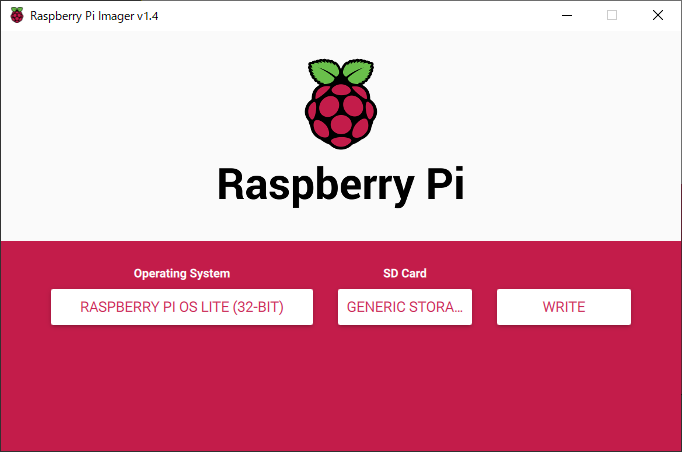
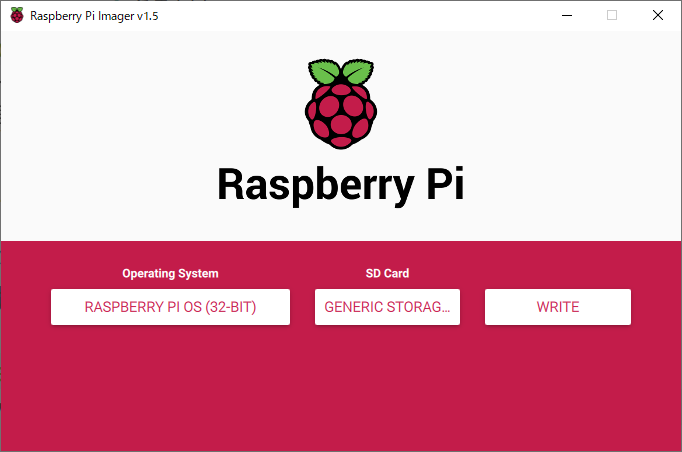
修正

diff --git a/監視カメラ構築手順.md b/監視カメラ構築手順.md
@@ -24,86 +24,69 @@
 `Raspberry Pi`はOSを書き込むための専用ソフトを配布しているので、それを用いてOSを書き込みます。
 ソフトは以下からダウンロードできます。
 
-[https://www.raspberrypi.org/downloads/](https://www.raspberrypi.org/downloads/)
+[https://www.raspberrypi.org/software/](https://www.raspberrypi.org/software/)
 
-今回は`Raspberry Pi OS Lite (32-bit)`を書き込みました。
-これはCUI環境のみの最小版OSです。
-デスクトップ環境も使いたい場合は`Raspberry Pi OS Full (32-bit)`をインストールしてください。
+1. `Download for Windows`をクリック
+2. ダウンロードしたプログラムをインストール
+3. インストールした`Raspberry Pi Imager`を起動
+4. `Operating System`に`Raspberry Pi OS (32-bit)`を選択
+5. `SD Card`に書き込み先のSDカードを選択
+6. `WRITE`をクリックして書き込み開始
 
 <img src="figure/RaspberryPi1.png" width="500px">
 
-### デフォルトでWi-Fiに自動的に繋がるようにする
-有線LANを使用する場合はこの手順は飛ばしてください。
+### 起動する
+1. OSを書き込んだmicro SDをRaspberry Piに差し込む
+2. Raspberry PiとディスプレイをHDMIで接続する
+3. Wi-Fiではなく有線LANを使用する場合は有線LANを接続する
+4. マウスとキーボードを接続する
+5. 電源を接続する
 
-micro SDの直下に`wpa_supplicant.conf`という名前のテキストファイルを作成します。
-このファイルが存在すると、Raspberry Pi起動時に自動的に`/etc/wpa_supplicant/wpa_supplicant.conf`に上書きコピーされます。
+### 初期設定
+初回起動時、以下のような画面が表示されるので、ここで初期設定を行います。
 
-<img src="figure/RaspberryPi2.png" width="500px">
+<img src="figure/RaspberryPi7.jpg" width="500px">
 
-ファイルの内容は以下のようにします。
+Raspberry Pi用のパスワードを求められるので、入力したパスワードをメモしておきます。
+また、Wi-Fi接続をする場合はここで設定します。
+最後にアップデートを行うか問われるので、アップデートしておきます。
 
-```
-country=JP
-ctrl_interface=DIR=/var/run/wpa_supplicant GROUP=netdev
-update_config=1
-network={
-	ssid="<ルーターのSSID>"
-	psk="<ルーターのパスワード>"
-}
-```
+### カメラとSSHの有効化
+カメラにアクセスできるようにします。
+また、WindowsからRaspberry Piにアクセス出来るようにSSH接続も有効化します。
+以下の場所にRaspberry Piの設定画面があるので、それを開きます。
+
+<img src="figure/RaspberryPi6.jpg" width="500px">
+
+次に、Interfacesのタブ中にCameraとSSHの項目があるので、Enableに変更しOKを押します。
+
+<img src="figure/RaspberryPi5.jpg" width="500px">
+
+次に、Raspberry PiのIPアドレスを確認します。
+右上にあるネットワークのアイコンからIPアドレスを確認できるので、その値をメモしておきます。
+
+<img src="figure/RaspberryPi4.jpg" width="500px">
+
+最後にWindowsのコマンドプロンプトからRaspberry Piに接続してみます。
+`ssh pi@<Raspberry PiのIPアドレス>`を実行し、設定したパスワードを入力してログインします。
 
 <img src="figure/RaspberryPi3.png" width="500px">
 
-アクセスするルーターを複数設定したい場合は、その分だけ`network={}`を下に追加します。
-
-### デフォルトでssh接続を有効にする
-micro SDの直下に`ssh`という名前のテキストファイルを作成します **(ファイル名に拡張子は付けません)** 。
-このファイルが存在すると、デフォルトでssh接続が有効になります。
-
-<img src="figure/RaspberryPi4.png" width="500px">
-
-### 起動する
-OSを書き込んだmicro SDをRaspberry Piに差し込み電源を入れます。
-次に、Raspberry Piと同じLANに繋がっているWindowsから`arp -a`を実行します。
-ここに表示されているIPアドレスのいずれかがRaspberry PiのIPアドレスになります。
-自分の場合は`192.168.1.17`でした。
-
-<img src="figure/RaspberryPi5.png" width="500px">
-
-ここに表示されているIPアドレス1つ1つにssh接続を行い、Raspberry Piへのログインを試みます。
-ssh接続のコマンドは`ssh <ユーザー名>@<IPアドレス>`です。
-また、Raspberry Piのデフォルトのユーザー名とパスワードは`pi`と`raspberry`です。
-成功すると、以下のようにログインできます。
-
-<img src="figure/RaspberryPi6.png" width="500px">
-
-### パスワードの変更
-Raspberry Piのデフォルトのパスワードを使い続けるのはセキュリティ上よくないので変更します。
-次のコマンドをRaspberry Piにsshでログインして実行します。
-
-```bash
-sudo raspi-config
-```
-
-次のような画面になるので、`1 Change User Password`を選択します。
-
-<img src="figure/RaspberryPi7.png" width="500px">
-
-あとは画面に指示される通りに進めてパスワードを変更します。
-これ以降のsshログインでは、パスワードに`raspberry`ではなく今回設定したパスワードを使用してください。
-
-### 最低限のプログラムのインストール
-次のコマンドをRaspberry Piにsshでログインして実行します。
-```bash
-sudo apt update -y
-sudo apt upgrade -y
-sudo apt install -y vim nano tmux wget ffmpeg
-```
+ここで念のために再起動しておきます。
 
 ### 公開鍵認証の設定
 sshの認証はパスワード認証の他に、公開鍵認証というものもあります。
 一般的にはパスワード認証よりも公開鍵認証のほうが安全だと言われています。
 ここでは解説しませんが、公開鍵認証の設定をすることをお勧めします。
+
+### 最低限のプログラムのインストール
+次のコマンドをRaspberry Piにsshでログインして実行します。
+
+```bash
+sudo apt update -y
+sudo apt upgrade -y
+sudo apt install -y vim nano tmux wget ffmpeg
+```
 
 ## ステップ1 VPNへの接続
 まずRaspberry Piにsshでログインします。
@@ -246,11 +229,10 @@ ssh pi@<Raspberry PiがVPN接続の認証に用いたユーザー名>.example
 ffmpeg -re -f lavfi -i testsrc2=s=320x240 -t 600 -c:v libx264 -f flv rtmp://10.0.0.1/live/test
 ```
 
-次に、WindowsからVPNに接続し、次のコマンドを実行します。
+次に、WindowsからVPNに接続し、VLCというソフトを用いて映像を視聴します。
+VLCを開いて「ファイル」から「ネットワークストリームを開く」を開き、以下のアドレスを入力します。
 
-```
-ffplay rtmp://10.0.0.1/live/test
-```
+`rtmp://10.0.0.1/live/test`
 
 正常であれば、以下のような映像が再生されます。
 
@@ -260,8 +242,7 @@ ffplay rtmp://10.0.0.1/live/test
 
 ```bash
 ffmpeg \
--f v4l2 -thread_queue_size 8192 -input_format yuyv422 -video_size 1280x720 \
--framerate 15 -i /dev/video0 -c:v h264_omx \
+-f v4l2 -thread_queue_size 8192 -i /dev/video0 -c:v h264_omx \
 -b:v 740k -bufsize 740k -vsync 1 -g 16 \
 -f flv rtmp://10.0.0.1/live/test
 ```
@@ -291,8 +272,7 @@ vim /home/pi/startup.sh
 # service : /etc/systemd/system/startup.service
 
 ffmpeg \
--f v4l2 -thread_queue_size 8192 -input_format yuyv422 -video_size 1280x720 \
--framerate 15 -i /dev/video0 -c:v h264_omx \
+-f v4l2 -thread_queue_size 8192 -i /dev/video0 -c:v h264_omx \
 -b:v 740k -bufsize 740k -vsync 1 -g 16 \
 -filter_complex " \
 drawtext=fontfile=/usr/share/fonts/truetype/dejavu/DejaVuSansMono-Bold: \
@@ -330,11 +310,10 @@ sudo systemctl enable startup.service
 sudo systemctl start startup.service
 ```
 
-次に、WindowsからVPNに接続し、次のコマンドを実行します。
+次に、WindowsからVPNに接続し、VLCというソフトを用いて映像を視聴します。
+VLCを開いて「ファイル」から「ネットワークストリームを開く」を開き、以下のアドレスを入力します。
 
-```
-ffplay rtmp://10.0.0.1/live/<Raspberry PiがVPN接続の認証に用いたユーザー名>
-```
+`rtmp://10.0.0.1/live/<Raspberry PiがVPN接続の認証に用いたユーザー名>`
 
 正常であれば、以下のような映像が再生されます。
 
